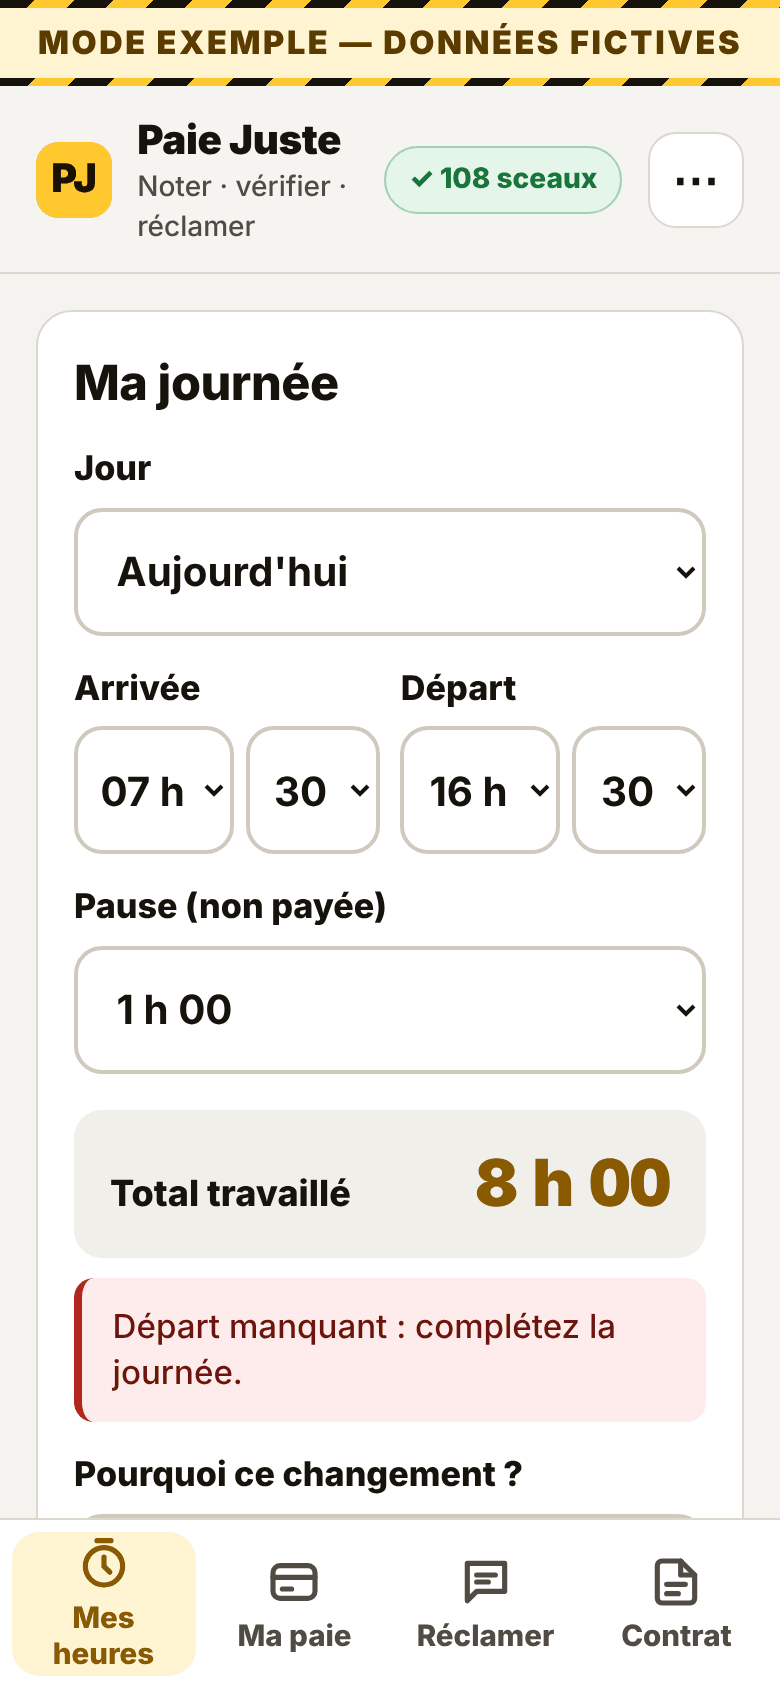
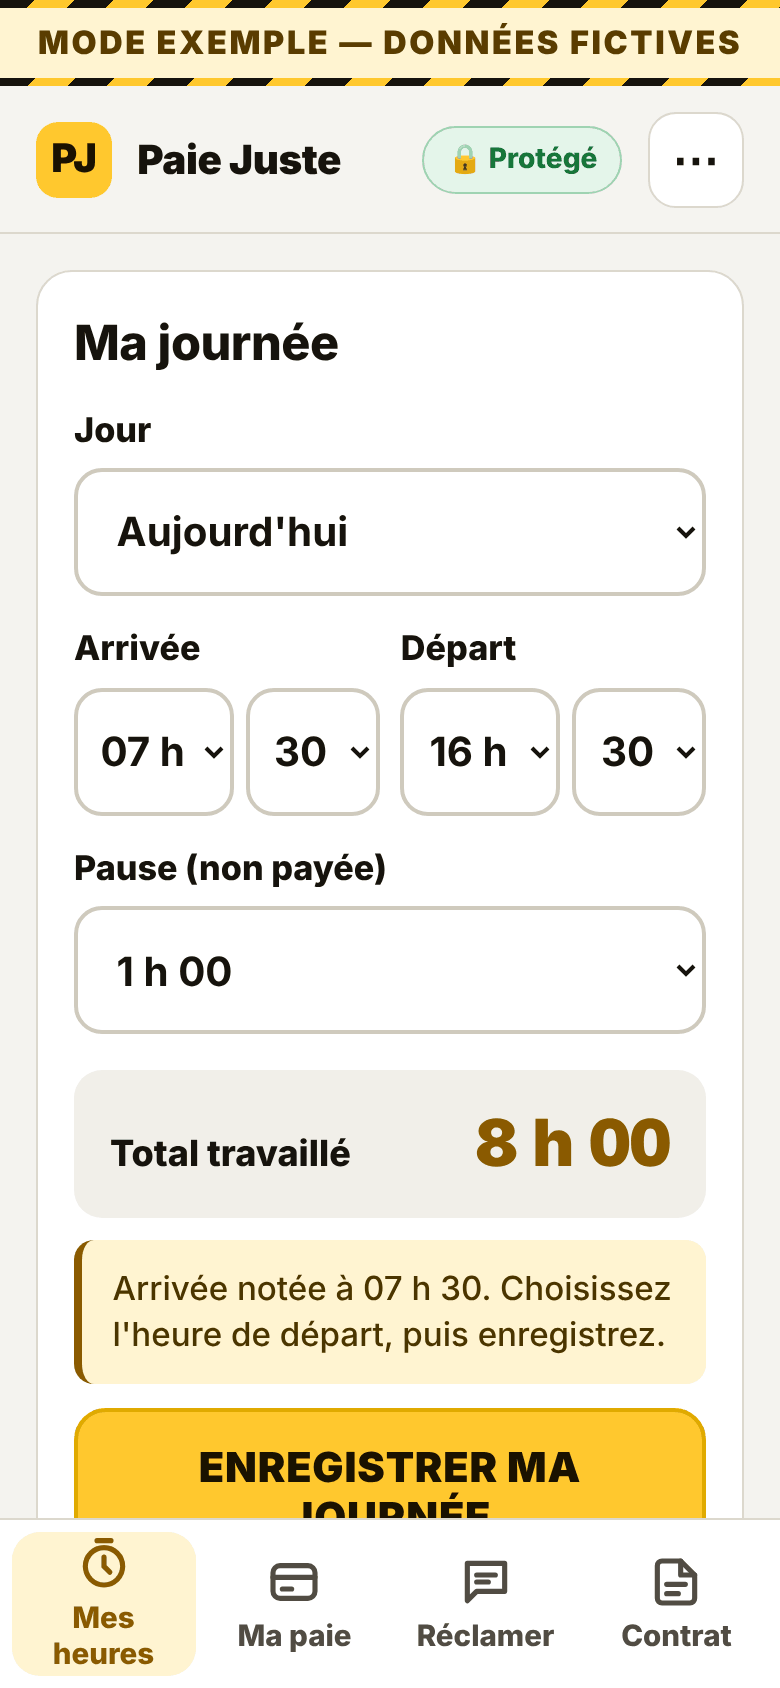
Écrans rangés dans l'ordre de lecture : Ma paie, Réclamer, Mes heures (0.8.1)
- Ma paie : verdict et bouton de réclamation en premier, « Ligne par ligne »
  en liste lisible (plus de tableau à faire glisser), détails regroupés ;
  bloc du net correctement fermé dans sa carte.
- Réclamer : choix du courrier en 4 cases ordonnées, coordonnées demandées
  avant la lettre, contacts d'aide repliés, avertissement en une ligne.
- Mes heures : journée sans départ complétée sans demander de motif.
- En-tête « 🔒 Protégé », sous-titre masqué sur petit écran, dates en français.

Claude-Session: https://claude.ai/code/session_016NWEJHWN7FpaQE58cH9vDJ

diff --git a/js/modules/paie.js b/js/modules/paie.js
@@ -98,7 +98,7 @@ function verifCard(c, periodeCourante) {
   const coller = `<details><summary class="small" style="min-height:44px;display:flex;align-items:center">ou coller le texte du bulletin</summary>
       <textarea id="bi-text" placeholder="Collez ici le texte du bulletin">${esc(bimp.raw)}</textarea><button class="btn" id="bi-parse">Vérifier ce texte</button></details>`;
   if (!F || !Object.keys(F).length) {
-    return `<div class="card" id="verif"><h2>Vérifier ma paie</h2>
+    return `<div class="card" id="verif"><h2>${c ? "Ajouter une fiche de paie" : "Vérifier ma paie"}</h2>
       ${boutonDocument("bi-file")}
       ${F ? `<p class="note bad">Je n'ai rien pu lire. Reprenez la photo bien à plat, bien éclairée.</p>` : ""}
       ${etat}${coller}</div>`;
@@ -325,9 +325,8 @@ function forecast(ctx, P, isCur) {
         x.libelle + " " + fmtEur((Number(x.montant) || 0) * (x.jours == null || x.jours === "" ? 1 : Number(x.jours))),
     )
     .join(", ");
-  return `<div class="card forecast"><h3>${isCur ? "Ce que vous allez toucher ce mois" : "Ce que vous auriez dû toucher"}</h3>
+  return `<details class="card forecast" ${isCur ? "open" : ""}><summary><h3>${isCur ? "Ce que vous allez toucher ce mois" : "Mon net, en détail"}</h3></summary>
       <div class="kpi"><div class="l">Net versé</div><div class="v num" style="color:var(--green)">${fmtEur(N.netVerse)}</div></div>
-    </div>
     <table class="calc" id="net-decompte" style="margin-top:.6rem">
       <tr><td>Net avant impôt</td><td class="r num">${fmtEur(N.netAvantImpot)}</td></tr>
       <tr><td>− Impôt à la source (${String(N.tauxPAS || 0).replace(".", ",")} %)<span class="art">taux saisi par vous · base : net imposable ${fmtEur(N.netImposable)}</span></td><td class="r num">${N.pas ? "−" : ""}${fmtEur(N.pas)}</td></tr>
@@ -347,7 +346,7 @@ function forecast(ctx, P, isCur) {
       <label class="check"><input type="checkbox" id="n-am" ${o.alsaceMoselle ? "checked" : ""}><span>Alsace-Moselle (+1,30 % maladie, taux URSSAF)</span></label>
       <label class="check"><input type="checkbox" id="n-hs" ${o.hsExoImpot ? "checked" : ""}><span>Heures sup exonérées d'impôt (limite 7 500 € par an, F2391)</span></label>
       <button class="btn" id="n-save">Enregistrer ces réglages</button></details>
-    <span class="tag warn">estimation</span></div>`;
+    <span class="tag warn">estimation</span></details>`;
 }
 
 /** État d'un bulletin gardé quand aucune heure n'est notée : la vérification du bulletin seul. */
@@ -446,17 +445,25 @@ function bulletinCard(P) {
 
 function compareCard(P) {
   if (P.cmp.verdict === "incomplet") return "";
-  return `<div class="card"><h3>Ligne par ligne</h3><div class="scroll-x"><table class="calc cmp"><tr><th>Ligne</th><th class="r">Attendu</th><th class="r">Reçu</th><th class="r">Écart</th></tr>
-    ${P.cmp.lines
-      .filter((l) => l.recu != null)
-      .map(
-        (l) =>
-          `<tr><td>${esc(l.label)}<span class="art">${l.regle === "saisie" ? "montant saisi" : "art. " + l.regle}</span></td><td class="r num">${fmtEur(l.attendu)}</td><td class="r num">${fmtEur(l.recu)}</td><td class="r num ${l.ecart > 0.004 ? "ecart-pos" : l.ecart < -0.004 ? "ecart-neg" : ""}">${l.ecart > 0 ? "+" : ""}${fmtEur(l.ecart)}</td></tr>`,
-      )
-      .join("")}
-    <tr class="tot"><td>Total</td><td></td><td></td><td class="r num ${P.cmp.total > 0 ? "ecart-pos" : ""}">${P.cmp.total > 0 ? "+" : ""}${fmtEur(P.cmp.total)}</td></tr></table></div>
+  const lignes = P.cmp.lines
+    .filter((l) => l.recu != null && (l.recu || l.attendu))
+    .map((l) => {
+      const manque = l.ecart > 0.004,
+        plus = l.ecart < -0.004;
+      const etat = manque
+        ? `<b class="ecart-pos">il manque ${fmtEur(l.ecart)}</b>`
+        : plus
+          ? `<span class="muted">+${fmtEur(-l.ecart)} en plus</span>`
+          : `<span class="ok-txt">✅ juste</span>`;
+      return `<li class="${manque ? "ko" : ""}"><div class="cmp-t"><span>${esc(l.label)}</span>${etat}</div>
+        <div class="small muted">reçu ${fmtEur(l.recu)} · attendu ${fmtEur(l.attendu)} · ${l.regle === "saisie" ? "montant saisi" : "art. " + l.regle}</div></li>`;
+    })
+    .join("");
+  const t = P.cmp.total;
+  return `<div class="card"><h3>Ligne par ligne</h3><ul class="cmp-list">${lignes}
+    <li class="tot"><div class="cmp-t"><span>Total</span>${t > 0.004 ? `<b class="ecart-pos">il manque ${fmtEur(t)}</b>` : `<b>${fmtEur(Math.abs(t))}</b>`}</div></li></ul>
     ${P.cmp.ecartHeures ? `<p class="note">Heures : ${String(Math.round(P.cmp.heuresPointees * 100) / 100).replace(".", ",")} h pointées contre ${String(P.cmp.heuresPayees).replace(".", ",")} h payées (écart ${String(P.cmp.ecartHeures).replace(".", ",")} h).</p>` : ""}
-    <p class="small muted">Écart positif = somme qui vous manque. Estimation, à vérifier. Ce n'est pas un conseil juridique.</p></div>`;
+    <p class="small muted">Estimation, à vérifier. Ce n'est pas un conseil juridique.</p></div>`;
 }
 
 export default {
@@ -475,11 +482,18 @@ export default {
     const c = P.contrat;
     const pres = prescriptionInfo(P.firstDay, parisDate(nowIso()));
     const opts = [...new Set([...months, cur])].sort().reverse();
+    // Une fiche vient d'être lue : sa vérification passe en premier.
+    const enCours = !!(bimp.champs && Object.keys(bimp.champs).length);
+    const verif = verifCard(c, periode === "contrat" ? cur : periode);
     el.innerHTML = `${contratSelect(ctx)}
       <div class="row" style="margin-bottom:.8rem"><select id="per" class="grow">${opts.map((m) => `<option value="${m}" ${m === periode ? "selected" : ""}>${fmtMois(m)}</option>`).join("")}<option value="contrat" ${periode === "contrat" ? "selected" : ""}>Toute la durée du contrat</option></select></div>
-      ${verifCard(c, periode === "contrat" ? cur : periode)}
+      ${enCours ? verif : ""}
+      ${["doit", "ordre", "trop_percu"].includes(P.cmp.verdict) ? hero(P) : ""}
+      ${P.cmp.verdict === "doit" ? `<button class="btn primary big" id="go-rec" style="margin-bottom:1rem">✉ Préparer ma réclamation</button>` : ""}
       ${resumeCard(ctx, P, periode, periode === cur)}
-      ${P.cmp.verdict === "doit" ? hero(P) : ""}
+      ${compareCard(P)}
+      ${enCours ? "" : verif}
+      <h3 class="section-titre">Pour vérifier en détail</h3>
       ${forecast(ctx, P, periode === cur)}
       <details class="card"><summary><h3>Mes heures, semaine par semaine</h3></summary>${bars(P)}
         ${P.weeks.some((w) => w.flags.includes("tiers")) ? `<p class="note">⚠ Une semaine dépasse le tiers de votre durée de contrat (limite des heures complémentaires, L3123-20).</p>` : ""}
@@ -506,9 +520,7 @@ export default {
         }
         ${pres && pres.horsDelai ? `<p class="note bad">Une partie de cette période a plus de 3 ans : délai de prescription des salaires (L3245-1) peut-être dépassé.</p>` : ""}</details>
       ${bulletinCard(P)}
-      ${compareCard(P)}
-      ${primesCard(P)}
-      ${P.cmp.verdict === "doit" ? `<button class="btn primary" id="go-rec">Préparer ma réclamation →</button>` : ""}`;
+      ${primesCard(P)}`;
     bindContratSelect(ctx, el);
     animate(el.querySelector("#hero-amt"), P.cmp.verdict === "doit" ? P.cmp.total : round2(P.exp.total + P.egalite));
     el.querySelector("#per").onchange = (e) => {

diff --git a/js/modules/reclamer.js b/js/modules/reclamer.js
@@ -55,6 +55,14 @@ export function buildContext(ctx) {
   };
 }
 
+/** @param {{nom?: string, adresse?: string, ville?: string}} p */
+function profilChamps(p) {
+  return `<label for="pf-nom">Nom et prénom</label><input id="pf-nom" type="text" value="${esc(p.nom || "")}">
+    <label for="pf-adr">Adresse</label><input id="pf-adr" type="text" value="${esc(p.adresse || "")}">
+    <label for="pf-ville">Ville (pour « Fait à »)</label><input id="pf-ville" type="text" value="${esc(p.ville || "")}" placeholder="Montpellier">
+    <button class="btn" id="pf-save">Enregistrer</button>`;
+}
+
 export default {
   id: "reclamer",
   label: "Réclamer",
@@ -74,33 +82,34 @@ export default {
             : annexeReleve(L);
     const p = L.profil;
     el.innerHTML = `${contratSelect(ctx)}
-      <div class="note bad"><b>Ce n'est pas un conseil juridique.</b> L'appli prépare des brouillons. Rien n'est envoyé automatiquement : vous relisez, vous signez, vous envoyez vous-même.</div>
-      <div class="card"><div class="row"><div class="grow"><h3>Montant réclamé (${esc(L.periodeLabel)})</h3><p class="muted small">Calculé dans « Ma paie » · estimation, à vérifier</p></div>
+      <div class="card"><div class="row"><div class="grow"><h3>À réclamer · ${esc(L.periodeLabel)}</h3><p class="muted small">Calculé dans « Ma paie » · estimation, à vérifier</p></div>
         <div class="num" style="font-size:2rem;font-weight:950;color:${L.compare.total > 0 ? "var(--red)" : "var(--green)"}">${fmtEur(Math.max(0, L.compare.total))}</div></div>
         ${L.compare.verdict === "incomplet" ? `<p class="note">Saisissez d'abord votre bulletin dans « Ma paie » pour chiffrer l'écart.</p>` : ""}</div>
-      <div class="seg-ctl" role="group" aria-label="Type de courrier">
-        <button data-t="amiable" aria-pressed="${ui.type === "amiable"}">① Demande amiable</button>
-        <button data-t="med" aria-pressed="${ui.type === "med"}">② Mise en demeure</button>
-        <button data-t="annexe" aria-pressed="${ui.type === "annexe"}">③ Relevé scellé</button>
-        <button data-t="rgpd" aria-pressed="${ui.type === "rgpd"}">④ Mes données (RGPD)</button></div>
+      <h3 class="section-titre">Quel courrier ?</h3>
+      <div class="choix-courrier" role="group" aria-label="Type de courrier">
+        <button data-t="amiable" aria-pressed="${ui.type === "amiable"}"><b>1. Demande polie</b><span>À envoyer en premier</span></button>
+        <button data-t="med" aria-pressed="${ui.type === "med"}"><b>2. Lettre ferme</b><span>Mise en demeure, si pas de réponse après 15 jours</span></button>
+        <button data-t="annexe" aria-pressed="${ui.type === "annexe"}"><b>Mon relevé d'heures</b><span>Preuve à joindre (scellée)</span></button>
+        <button data-t="rgpd" aria-pressed="${ui.type === "rgpd"}"><b>Demander mes données</b><span>Mes relevés chez l'employeur (RGPD)</span></button></div>
+      ${
+        p.nom
+          ? ""
+          : `<div class="card" id="pf-card"><h3>Votre nom et adresse</h3><p class="small muted">Ils apparaissent en haut de la lettre. Enregistrés sur ce téléphone seulement.</p>${profilChamps(p)}</div>`
+      }
       ${ui.type === "rgpd" ? `<p class="note">Pour obtenir de l'employeur ou de l'agence les relevés d'heures et éléments de paie qu'ils ont sur vous. Ce courrier ne réclame aucun montant : vous pouvez l'envoyer même sans écart chiffré.</p>` : ""}
       ${ui.type === "med" ? `<div class="grid2"><div><label for="r-am">Date de la demande amiable</label><input id="r-am" type="date" value="${ui.amiableDate}"></div><div><label for="r-del">Délai (jours)</label><input id="r-del" type="number" value="${ui.delai}"></div></div>` : ""}
       <div class="paper" id="paper" style="margin-top:.8rem">${esc(txt)}</div>
       <div class="grid2"><button class="btn primary" id="r-copy">Copier</button><button class="btn" id="r-print">Imprimer / PDF</button></div>
-      <p class="small muted">« Imprimer / PDF » ouvre la boîte d'impression du téléphone : choisissez « Enregistrer au format PDF ». Le relevé scellé est ajouté en annexe, sur une nouvelle page.</p>
-      <details class="card"><summary style="min-height:48px;display:flex;align-items:center"><b>Mes coordonnées pour les courriers</b></summary>
-        <label for="pf-nom">Nom et prénom</label><input id="pf-nom" type="text" value="${esc(p.nom || "")}">
-        <label for="pf-adr">Adresse</label><input id="pf-adr" type="text" value="${esc(p.adresse || "")}">
-        <label for="pf-ville">Ville (pour « Fait à »)</label><input id="pf-ville" type="text" value="${esc(p.ville || "")}" placeholder="Montpellier">
-        <button class="btn" id="pf-save">Enregistrer sur ce téléphone</button></details>
-      <div class="card"><h3>Se faire aider (gratuit)</h3><p class="small muted">Pour tout salarié : CDI, CDD, intérim, temps partiel. Coordonnées vérifiées le 10/11/2026 sur les sites officiels.</p>
+      <p class="small muted">Brouillon à relire et signer : rien n'est envoyé tout seul. Ce n'est pas un conseil juridique. « Imprimer / PDF » : choisissez « Enregistrer au format PDF » ; le relevé d'heures est ajouté en annexe.</p>
+      ${p.nom ? `<details class="card"><summary><h3>Mes coordonnées</h3></summary>${profilChamps(p)}</details>` : ""}
+      <details class="card"><summary><h3>📞 Se faire aider (gratuit)</h3></summary><p class="small muted">Pour tout salarié : CDI, CDD, intérim, temps partiel. Coordonnées vérifiées le 10/11/2026 sur les sites officiels.</p>
         ${CONTACTS.map(
           (
             c,
           ) => `<div class="contact"><b>${esc(c.nom)}</b><div class="small muted">${esc(c.role)}</div>${c.lignes.map((l) => `<div class="small">${esc(l)}</div>`).join("")}${c.telAff ? `<div class="small">${esc(c.telAff)}</div>` : ""}
           <div class="actions">${c.tel ? `<a href="tel:${c.tel}">📞 Appeler</a>` : ""}${c.mail ? `<a href="mailto:${c.mail}">✉ ${esc(c.mail)}</a>` : ""}${c.lien ? `<a href="${c.lien}" target="_blank" rel="noopener">Ouvrir</a>` : ""}<a href="${c.source}" target="_blank" rel="noopener" class="dim">source</a></div></div>`,
         ).join("")}
-        <p class="small dim">${esc(CONTACTS_NOTE)}</p></div>`;
+        <p class="small dim">${esc(CONTACTS_NOTE)}</p></details>`;
     bindContratSelect(ctx, el);
     el.querySelectorAll("[data-t]").forEach(
       (b) =>

diff --git a/js/modules/contrat.js b/js/modules/contrat.js
@@ -6,6 +6,9 @@ import { boutonDocument, brancherDocument, recevoir } from "./document.js";
 
 const ui = { editing: null, draft: null, proposals: null, rawText: "", progress: null, error: "", manuel: false };
 
+/** 2026-10-05 → 05/10/2026 */
+const dateFr = (d) => (d && /^\d{4}-\d{2}-\d{2}$/.test(d) ? d.split("-").reverse().join("/") : d || "");
+
 /** Accueil « Remplir mon contrat à la main » : le formulaire s'ouvre directement. */
 export function contratALaMain(ctx) {
   ui.manuel = true;
@@ -257,7 +260,7 @@ export default {
           <tr><td class="muted">Lieu</td><td class="r wr">${esc(c.lieu || "—")}</td></tr>
           <tr><td class="muted">Poste</td><td class="r wr">${esc(c.poste || "—")}</td></tr>
           <tr><td class="muted">Convention</td><td class="r wr">${esc(c.convention || "non précisée")}</td></tr>
-          <tr><td class="muted">Dates</td><td class="r wr">${esc(c.dateDebut || "?")} → ${esc(c.dateFin || (c.type === "cdi" ? "indéterminée" : "?"))}</td></tr>
+          <tr><td class="muted">Dates</td><td class="r wr">${esc(dateFr(c.dateDebut) || "?")} → ${esc(dateFr(c.dateFin) || (c.type === "cdi" ? "indéterminée" : "?"))}</td></tr>
           ${c.mode === "mensuel" ? `<tr><td class="muted">Taux horaire déduit</td><td class="r wr">${fmtEur(th)} <span class="art">mensuel ÷ (${c.hebdo} × 52/12)</span></td></tr>` : ""}
           ${c.avantages.length ? `<tr><td class="muted">Primes fixes</td><td class="r wr">${c.avantages.map((a) => esc(a.libelle) + " " + fmtEur(a.montant)).join("<br>")}</td></tr>` : ""}
           ${c.fin ? `<tr><td class="muted">Fin</td><td class="r wr">${fmtParis(c.fin.at, { year: true })} · ${esc(MOTIFS_FIN[c.fin.motif]?.label || "")}</td></tr>` : ""}

diff --git a/css/app.css b/css/app.css
@@ -1260,3 +1260,80 @@ ul.verifs .ic {
 #doc-lecture .doc-box h2 {
   margin-top: 0;
 }
+
+/* Ma paie : ligne par ligne lisible sans défilement horizontal */
+.cmp-list {
+  list-style: none;
+  margin: 0;
+  padding: 0;
+}
+.cmp-list li {
+  padding: 0.6rem 0;
+  border-bottom: 1px solid var(--line);
+}
+.cmp-list li.ko .cmp-t span:first-child {
+  font-weight: 700;
+}
+.cmp-list li.tot {
+  border-bottom: 0;
+  font-weight: 800;
+}
+.cmp-t {
+  display: flex;
+  justify-content: space-between;
+  gap: 0.6rem;
+  align-items: baseline;
+}
+.cmp-t > :last-child {
+  text-align: right;
+  white-space: nowrap;
+}
+.ok-txt {
+  color: var(--green);
+  font-weight: 700;
+}
+.section-titre {
+  margin: 1.4rem 0.2rem 0.6rem;
+  color: var(--muted);
+  font-size: 1rem;
+}
+@media (max-width: 440px) {
+  .brand span {
+    display: none;
+  }
+}
+.choix-courrier {
+  display: grid;
+  grid-template-columns: 1fr 1fr;
+  gap: 0.5rem;
+  margin-bottom: 0.8rem;
+}
+.choix-courrier button {
+  display: flex;
+  flex-direction: column;
+  align-items: flex-start;
+  gap: 0.2rem;
+  min-height: 72px;
+  padding: 0.7rem;
+  text-align: left;
+  border: 2px solid var(--line);
+  border-radius: 14px;
+  background: var(--card);
+  color: var(--fg);
+  font: inherit;
+  cursor: pointer;
+}
+.choix-courrier button span {
+  font-size: 0.8rem;
+  color: var(--muted);
+  font-weight: 500;
+}
+.choix-courrier button[aria-pressed="true"] {
+  border-color: var(--amber);
+  background: var(--amber-bg);
+}
+
+.btn + .card,
+.btn + details.card {
+  margin-top: 0.8rem;
+}

diff --git a/js/modules/pointer.js b/js/modules/pointer.js
@@ -87,12 +87,14 @@ function journeeCard(ctx, today, jour, existant) {
       <div class="total-jour"><span>Total travaillé</span><b class="num" id="j-total">—</b></div>
       ${
         modif
-          ? `${existant.aVerifier ? `<p class="note bad">Départ manquant : complétez la journée.</p>` : ""}
-      <label for="j-motif">Pourquoi ce changement ?</label><input id="j-motif" type="text" value="${existant.aVerifier ? "Journée complétée" : ""}" placeholder="Ex. : parti à 17 h">`
+          ? existant.aVerifier
+            ? `<p class="note">Arrivée notée à ${esc(String(v.debut).replace(":", " h "))}. Choisissez l'heure de départ, puis enregistrez.</p>
+      <input id="j-motif" type="hidden" value="Journée complétée">`
+            : `<label for="j-motif">Pourquoi ce changement ?</label><input id="j-motif" type="text" value="" placeholder="Ex. : parti à 17 h">`
           : ""
       }
       <p class="note bad" id="j-err" hidden></p>
-      <button class="btn primary big" id="j-ok">${modif ? "ENREGISTRER LA MODIFICATION" : "ENREGISTRER MA JOURNÉE"}</button>
+      <button class="btn primary big" id="j-ok">${modif && !existant.aVerifier ? "ENREGISTRER LA MODIFICATION" : "ENREGISTRER MA JOURNÉE"}</button>
       ${modif ? `<button class="btn ghost" id="j-suppr">Supprimer cette journée</button>` : ""}
       ${vite ? "</details>" : ""}
     </div>`;

diff --git a/js/app.js b/js/app.js
@@ -118,9 +118,10 @@ function renderPill() {
   const p = $("#seal-pill");
   if (!ctx.verif) return;
   p.className = "seal-pill" + (ctx.verif.ok ? "" : " bad");
-  p.textContent = ctx.verif.ok
-    ? `✓ ${ctx.records.length} sceau${ctx.records.length > 1 ? "x" : ""}`
-    : "⚠ chaîne rompue";
+  p.title = ctx.verif.ok
+    ? `${ctx.records.length} enregistrement${ctx.records.length > 1 ? "s" : ""} scellé${ctx.records.length > 1 ? "s" : ""} : rien n'a été effacé ni modifié en cachette.`
+    : "Un enregistrement a été modifié : la chaîne d'empreintes est rompue.";
+  p.textContent = ctx.verif.ok ? "🔒 Protégé" : "⚠ chaîne rompue";
 }
 let current = null;
 function render() {

diff --git a/sw.js b/sw.js
@@ -1,7 +1,7 @@
 /* Service worker Paie Juste : cache local, hors ligne, aucune ressource externe.
    URLs relatives au script, pour que le cache et le scope restent dans le dossier
    de l'appli — en local « / », sur GitHub Pages « /Paie-juste/ ». */
-const VERSION = "paie-juste-v0.8.0";
+const VERSION = "paie-juste-v0.8.1";
 const CORE = [
   "./",
   "./index.html",

diff --git a/js/version.js b/js/version.js
@@ -1,4 +1,4 @@
 export const APP_ID = "pointeuse-paie-interim";
 export const APP_NAME = "Pointeuse & Paie";
-export const APP_VERSION = "0.8.0";
+export const APP_VERSION = "0.8.1";
 export const DISCLAIMER = "Estimation, à vérifier. Ce n'est pas un conseil juridique.";

diff --git a/CHANGELOG.md b/CHANGELOG.md
@@ -1,5 +1,17 @@
 # Journal des changements
 
+## 0.8.1 — 2026-11-12
+
+Des écrans rangés dans l'ordre où on les lit. Les montants de paie ne changent pas.
+
+- Ma paie : le résultat d'abord (« L'agence vous doit … » ou « Tout est en ordre »), juste dessous le bouton « ✉ Préparer ma réclamation », puis « En bref » et le « Ligne par ligne ».
+- « Ligne par ligne » se lit sans faire glisser un tableau : une ligne par élément avec « ✅ juste » ou « il manque X € ». Les lignes à 0 € disparaissent.
+- Le détail (net, heures par semaine, calcul, saisie à la main, primes) est rangé sous « Pour vérifier en détail ». Le bloc du net est désormais bien fermé (il débordait de sa carte).
+- Une fiche qui vient d'être lue s'affiche en premier.
+- Réclamer : choix du courrier en 4 grosses cases avec le bon ordre (« 1. Demande polie », « 2. Lettre ferme »…). On demande le nom et l'adresse avant la lettre s'ils manquent. Les contacts d'aide sont repliés. Fini le gros bandeau rouge.
+- Mes heures : journée commencée sans départ, message calme (« Arrivée notée à 7 h 30. Choisissez l'heure de départ ») et bouton « Enregistrer ma journée », sans demander de motif.
+- En haut : « 🔒 Protégé » au lieu de « 108 sceaux », et le sous-titre disparaît sur petit écran. Dates du contrat en français (05/10/2026).
+
 ## 0.8.0 — 2026-11-12
 
 Un seul bouton pour tous les papiers. Les montants de paie ne changent pas.
